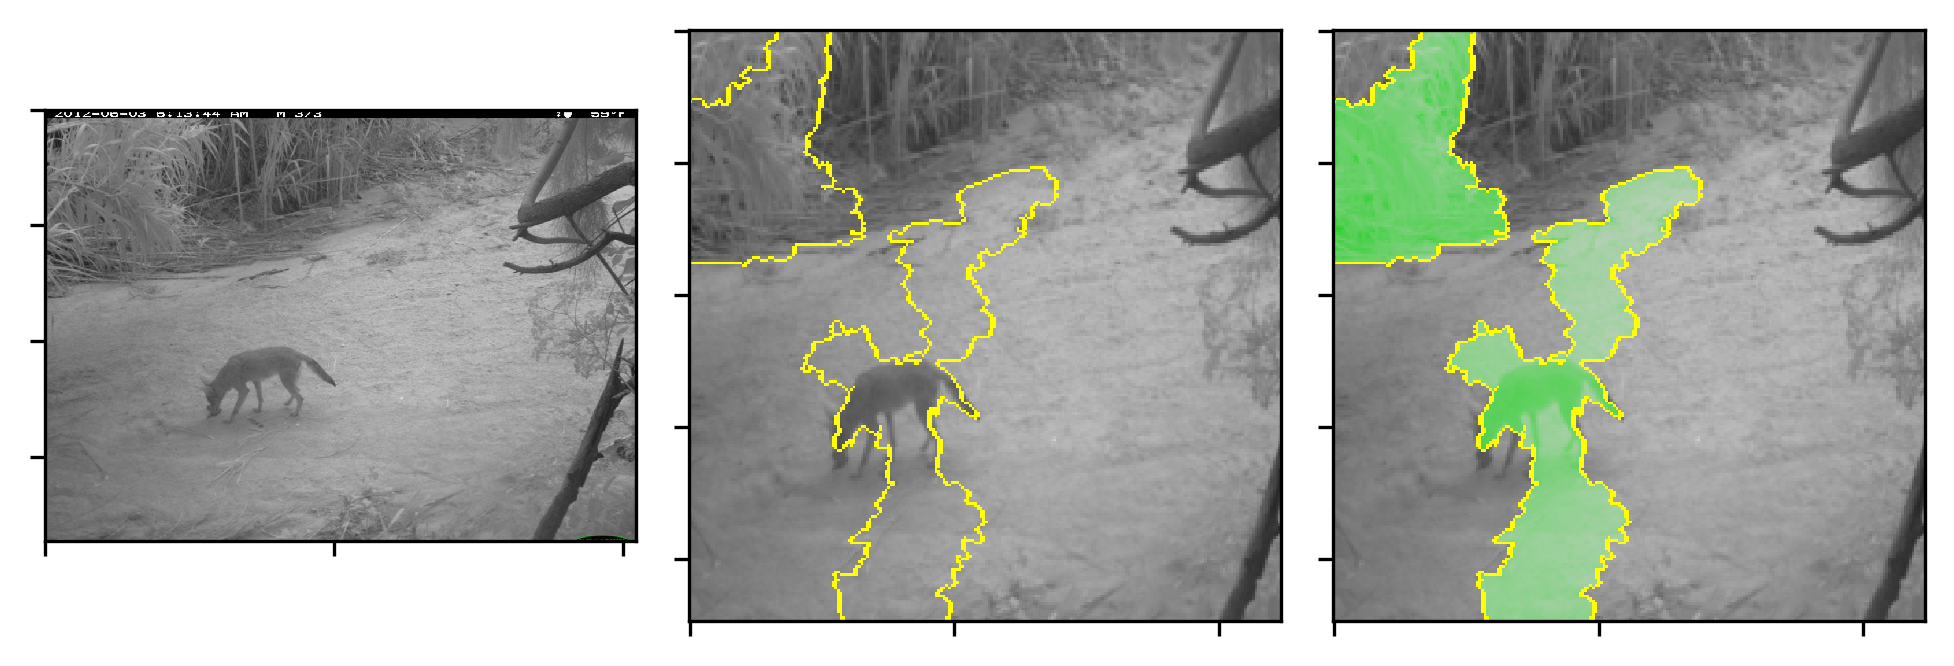
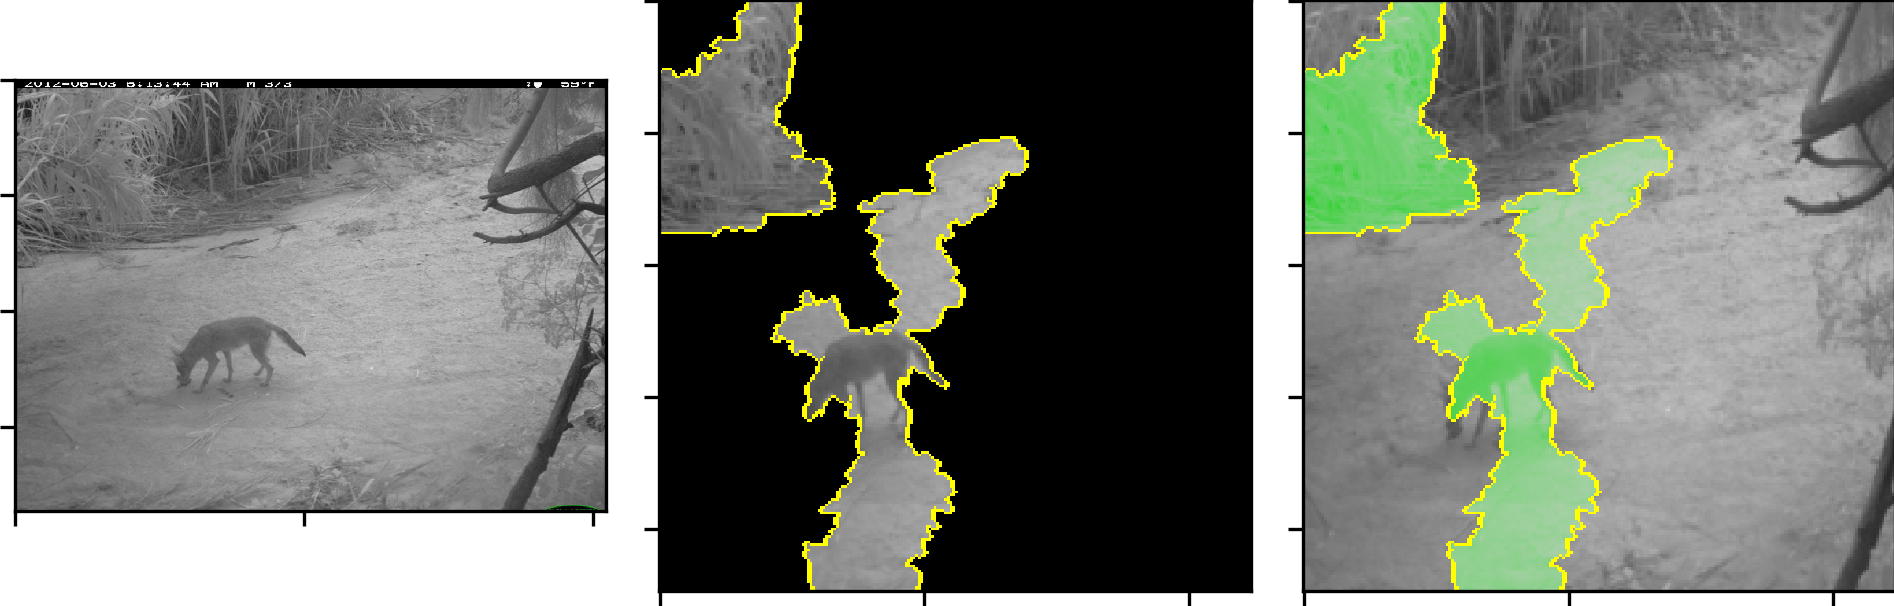
some minor changes but this is mostly to pull the merge request

diff --git a/experiments/invariant-risk-minimization/wildcam/model_explanation.py b/experiments/invariant-risk-minimization/wildcam/model_explanation.py
@@ -48,9 +48,9 @@ def batch_predict(images):
     batch = batch.to(device)
     
     logits = model(batch)
-    probs = torch.sigmoid(logits)
+    #probs = torch.sigmoid(logits)
     # if you don't pass 2 probs, LIME always classifies all examples in the coyote category
-    #probs = torch.cat((1-torch.sigmoid(logits), torch.sigmoid(logits)), 1)
+    probs = torch.cat((1-torch.sigmoid(logits), torch.sigmoid(logits)), 1)
     return probs.detach().cpu().numpy()
 
 def generate_explanations(images, outfile, num_samples, num_features, seed=123):
@@ -73,7 +73,7 @@ def generate_explanations(images, outfile, num_samples, num_features, seed=123):
         print("label: ", explanation.top_labels[0])
         temp, mask = explanation.get_image_and_mask(explanation.top_labels[0], 
                                             positive_only=True, 
-                                            num_features=num_features[i], hide_rest=False)
+                                            num_features=num_features[i], hide_rest=True)
         img_boundry1 = mark_boundaries(temp/255.0, mask)
 
         temp, mask = explanation.get_image_and_mask(explanation.top_labels[0], 
@@ -100,8 +100,8 @@ def generate_explanations(images, outfile, num_samples, num_features, seed=123):
 
 
 if __name__ == "__main__":
-    #model_filename="./models/wildcam_1501_0.001_40_10000.0_IRM.pth"
-    model_filename="./models/wildcam_1501_0.001_0_0.0_ERM.pth"
+    model_filename="./models/wildcam_1501_0.001_40_10000.0_IRM.pth"
+    #model_filename="./models/wildcam_1501_0.001_0_0.0_ERM.pth"
     net = get_net("WILDCAM")
     model = net(n_classes=2)
     print("loading model")
@@ -115,11 +115,12 @@ if __name__ == "__main__":
                           ['../../../data/wildcam_subset_sample/train_46/coyote/59817c02-23d2-11e8-a6a3-ec086b02610b.jpg'], 
                           outfile='./figures/IRM_coyote_explanation.png', 
                           num_samples=1000, num_features=[5], seed=123)
+    '''
     generate_explanations(images = 
                           ['../../../data/wildcam_subset_sample/train_46/raccoon/59c669d3-23d2-11e8-a6a3-ec086b02610b.jpg'], 
                           outfile='./figures/IRM_raccoon_explanation.png', 
                           num_samples=1000, num_features=[10], seed=123)
-    '''
+    
     '''
     generate_explanations(images = 
                           ['../../../data/wildcam_subset_sample/train_46/coyote/59817c02-23d2-11e8-a6a3-ec086b02610b.jpg',
@@ -135,6 +136,7 @@ if __name__ == "__main__":
                           num_samples=1000, num_features=[5, 10, 10, 15, 5, 10, 15, 10, 15], seed=123)
     
     '''
+    '''
     generate_explanations(images = 
                           ['../../../data/wildcam_subset_sample/train_46/coyote/59817c02-23d2-11e8-a6a3-ec086b02610b.jpg',
                            '../../../data/wildcam_subset_sample/train_46/coyote/59e77deb-23d2-11e8-a6a3-ec086b02610b.jpg',
@@ -147,4 +149,4 @@ if __name__ == "__main__":
                            '../../../data/wildcam_subset_sample/test/coyote/592c4d30-23d2-11e8-a6a3-ec086b02610b.jpg'], 
                           outfile='./figures/ERM_results.png', 
                           num_samples=1000, num_features=[5, 10, 10, 15, 5, 10, 15, 10, 15], seed=123)
-   
+   '''
